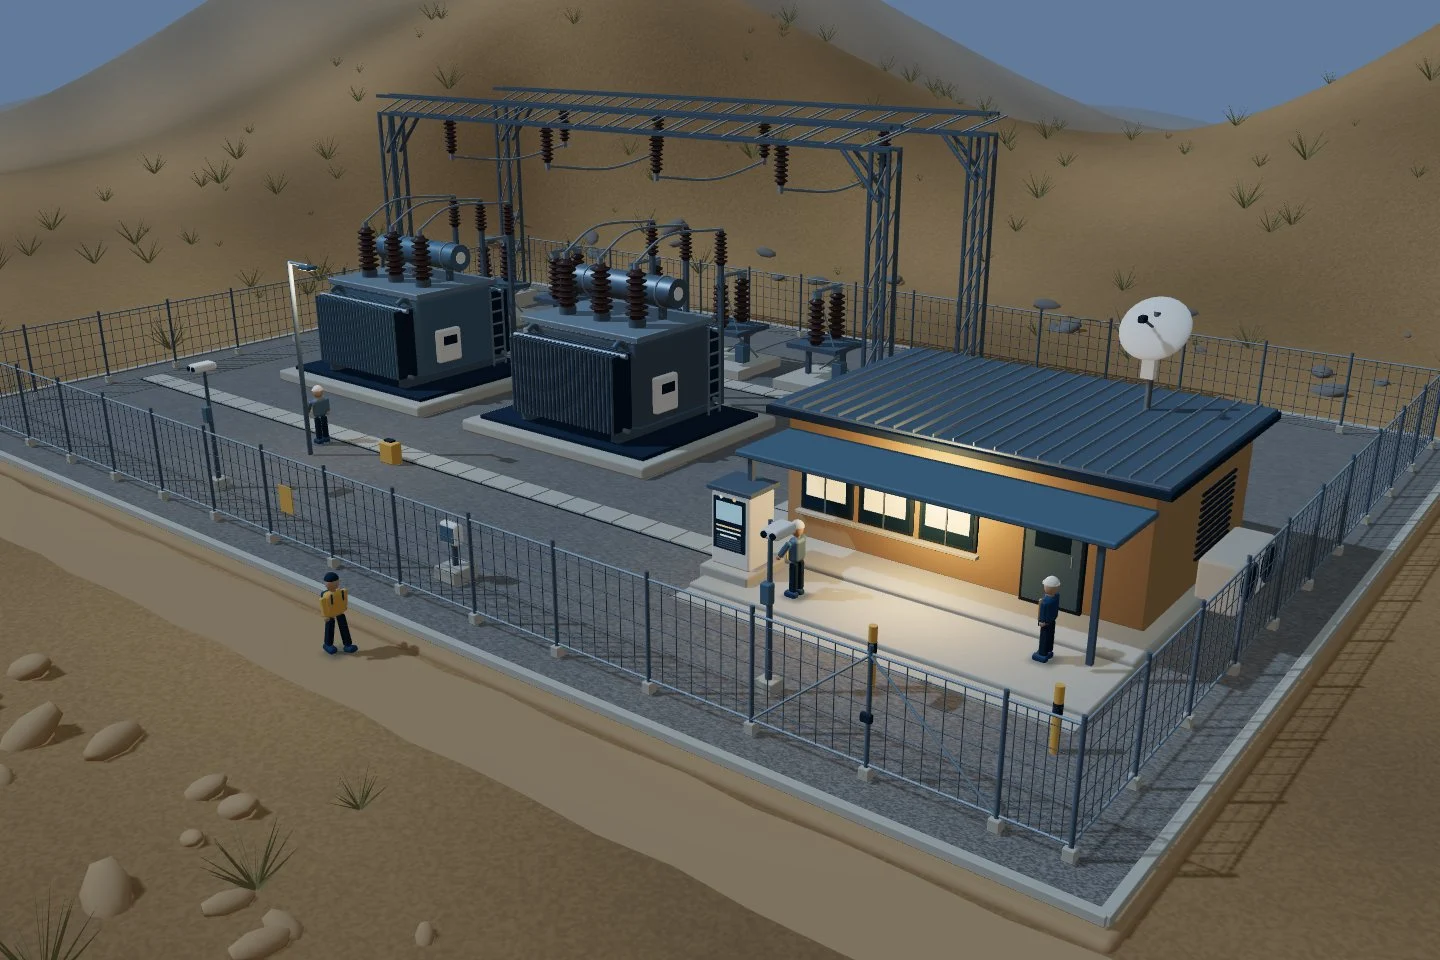
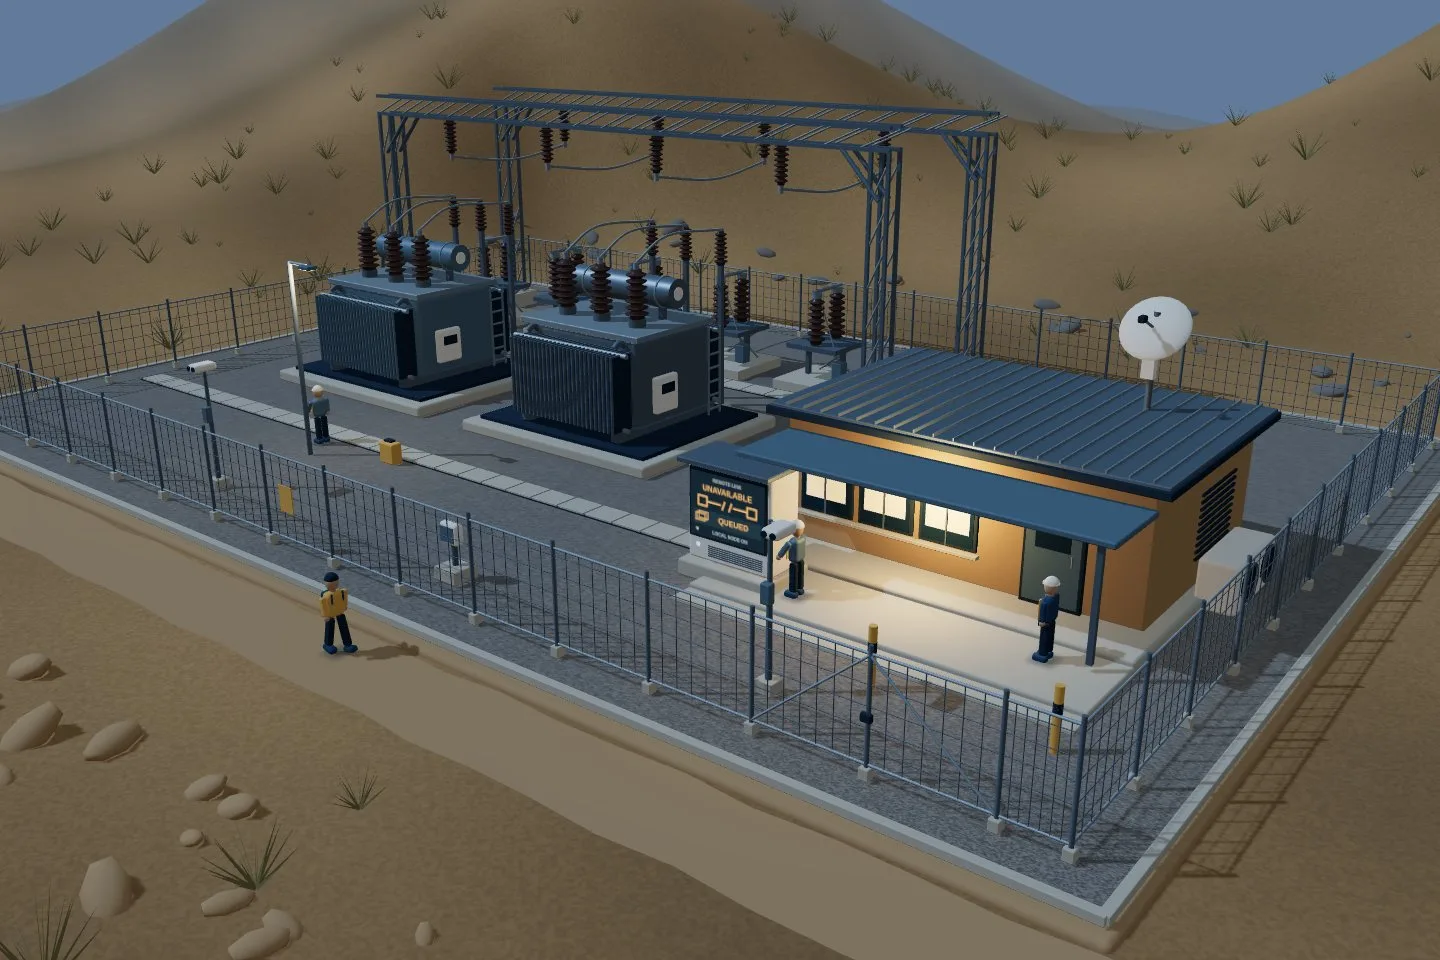
Make remote-link status readable on the physical substation node
Show the remote channel and retained record on a hooded cabinet display,
keep local power steady, and frame loss/restoration for phone viewing.
Preserve the accepted guard motion and refresh the same-geometry poster.

Codex-Agent: tessure-s6
Codex-Session: 01a0d08f-ad9d-7ce0-b7ba-debcd0dd06a1

Changed region(s): [[0.4688, 0.4688, 0.625, 0.625]]

diff --git a/site/components/worlds/scenes/critical-infrastructure/index.tsx b/site/components/worlds/scenes/critical-infrastructure/index.tsx
@@ -5,6 +5,7 @@ import { BufferGeometry, CatmullRomCurve3, DataTexture, Float32BufferAttribute, 
 import type { SceneModule, Vec3, WorldProps } from '../../contract'
 import { mix, progress, samplePath, smooth } from '../../math'
 import { definition } from './content'
+import { statusAtlas } from './status'
 import { contactTexture, insulatorGeometry, makePerson, makeSite, materials, scrubGeometry, scrubPlacements, terrain, type Part, type Placement, type Materials } from './geometry'
 
 function Parts({ parts, shadows = true }: { parts: Part[]; shadows?: boolean }) {
@@ -88,7 +89,9 @@ function Observation({ from, clock, start, local = false, color }: { from: Vec3;
   return <group ref={root} visible={false}><lineSegments geometry={geometry}><lineBasicMaterial color={color} transparent opacity={0.55} depthWrite={false} /></lineSegments><mesh ref={packet}><sphereGeometry args={[0.055, 8, 6]} /><meshBasicMaterial color={color} /></mesh></group>
 }
 function ConnectionState({ clock, sensors }: { clock: WorldProps['clock']; sensors: boolean }) {
-  const connected = useRef<Group>(null), queued = useRef<Group>(null), record = useRef<Group>(null), lamp = useRef<MeshBasicMaterial>(null), bars = useRef<MeshBasicMaterial>(null), packet = useRef<Mesh>(null)
+  const connected = useRef<Group>(null), queued = useRef<Group>(null), packet = useRef<Mesh>(null)
+  const display = useMemo(statusAtlas, [])
+  useEffect(() => () => display.dispose(), [display])
   const points = useMemo(() => new CatmullRomCurve3([new Vector3(15.5, 6.3, -0.8), new Vector3(18, 9, -3), new Vector3(24, 11, -7)]), [])
   const link = useMemo(() => new BufferGeometry().setFromPoints(points.getPoints(32)), [points])
   const continuous = useMemo(() => { const p = points.getPoints(32); return new BufferGeometry().setFromPoints(p.flatMap((v, i) => i < p.length - 1 ? [v, p[i + 1]] : [])) }, [points]), at = useMemo(() => new Vector3(), [])
@@ -97,19 +100,13 @@ function ConnectionState({ clock, sensors }: { clock: WorldProps['clock']; senso
     const t = clock.current.time, up = t < 4 || t >= 46
     if (connected.current) connected.current.visible = sensors && up
     if (queued.current) queued.current.visible = sensors && !up
-    if (record.current) record.current.visible = t >= 20
-    if (lamp.current) lamp.current.color.set(up ? '#a8c8d5' : '#d4a160')
-    if (bars.current) bars.current.color.set(t >= 46 ? '#b9d0da' : '#cda56d')
+    const state = t < 4 ? 0 : t < 20 ? 1 : t < 46 ? 2 : 3
+    display.offset.set((state % 2) * 0.5, state < 2 ? 0.5 : 0)
     if (packet.current) { points.getPoint((t * 0.22) % 1, at); packet.current.position.copy(at) }
   })
   return <group>
-    <mesh position={[8.58, 2.42, 6.7]}><circleGeometry args={[0.046, 12]} /><meshBasicMaterial color="#bdd1d3" /></mesh>
-    <mesh position={[8.96, 2.42, 6.7]}><circleGeometry args={[0.052, 12]} /><meshBasicMaterial ref={lamp} color="#a8c8d5" /></mesh>
-    <group ref={record} position={[8.8, 1.72, 6.71]} visible={false}>
-      <mesh><boxGeometry args={[0.7, 0.04, 0.014]} /><meshBasicMaterial ref={bars} color="#cda56d" /></mesh>
-      <mesh position={[0, -0.115, 0]}><boxGeometry args={[0.7, 0.04, 0.014]} /><meshBasicMaterial color="#b2c6c8" /></mesh>
-      <mesh position={[0, -0.23, 0]}><boxGeometry args={[0.48, 0.04, 0.014]} /><meshBasicMaterial color="#b2c6c8" /></mesh>
-    </group>
+    <mesh name="remote-status-display" position={[8.8, 2.15, 6.767]}><planeGeometry args={[2.12, 1.59]} /><meshBasicMaterial map={display} toneMapped={false} /></mesh>
+    <mesh name="local-power-lamp" position={[7.92, 1.1, 6.727]}><circleGeometry args={[0.065, 16]} /><meshBasicMaterial color="#bdd1d3" /></mesh>
     <group ref={connected} visible={false}><lineSegments geometry={continuous}><lineBasicMaterial color="#bdcdd9" transparent opacity={0.36} depthWrite={false} /></lineSegments><mesh ref={packet}><sphereGeometry args={[0.085, 8, 6]} /><meshBasicMaterial color="#c3d5df" /></mesh></group>
     <group ref={queued} visible={false}><lineSegments geometry={link}><lineBasicMaterial color="#cba674" transparent opacity={0.25} depthWrite={false} /></lineSegments>{[0, 1, 2].map(i => <mesh key={i} position={[9.55, 2.6 + i * 0.14, 6.2]}><boxGeometry args={[0.45, 0.045, 0.24]} /><meshBasicMaterial color="#d5b17f" transparent opacity={0.75} /></mesh>)}</group>
   </group>
@@ -129,7 +126,7 @@ function World({ clock, layers, quality }: WorldProps) {
     <Contact texture={contact} position={[-1.4, 0.24, -0.8]} size={[9.5, 8]} opacity={0.54} />
     <Contact texture={contact} position={[13, 0.241, 1.3]} size={[11.7, 9]} opacity={0.42} />
     <Contact texture={contact} position={[-7.6, 0.242, -9]} size={[24, 4]} opacity={0.32} />
-    <Contact texture={contact} position={[8.8, 0.464, 6.15]} size={[1.9, 2]} opacity={0.5} />
+    <Contact texture={contact} position={[8.8, 0.464, 6.15]} size={[3.1, 2.2]} opacity={0.5} />
     <Person role="visitor" clock={clock} m={m} high={high} contact={contact} /><Person role="guard" clock={clock} m={m} high={high} contact={contact} />
     <Person role="operator" clock={clock} m={m} high={high} contact={contact} /><Person role="technician" clock={clock} m={m} high={high} contact={contact} />
     <ConnectionState clock={clock} sensors={layers.sensors} />{layers.tracks && <Track clock={clock} />}

diff --git a/site/components/worlds/scenes/critical-infrastructure/content.ts b/site/components/worlds/scenes/critical-infrastructure/content.ts
@@ -9,7 +9,7 @@ export const definition: SceneDefinition = {
   establishing: { title: 'The last maintenance round', body: 'A technician checks the yard as evening settles over the foothills. The local station and remote link are available in this fictional site study.' },
   duration: 52,
   poster: '/worlds/critical-infrastructure/poster.webp',
-  posterAlt: 'A blue-hour substation in ochre foothills: ribbed transformers, ceramic insulators and silver gantries beside a warmly lit local control shelter.',
+  posterAlt: 'A blue-hour substation in ochre foothills: ribbed transformers, ceramic insulators and silver gantries beside a warmly lit control shelter and a physical cabinet showing the unavailable remote link and retained local record.',
   palette: {
     background: '#627b9a', fog: '#627b9a', fogNear: 72, fogFar: 195,
     ambient: 0.36, sun: '#abcaf1', sunIntensity: 1.85, sunPosition: [-28, 38, 22],
@@ -20,22 +20,26 @@ export const definition: SceneDefinition = {
   practicalLightLimit: 2,
   cameras: [
     { at: 0, position: [37, 25, 46], target: [0, 2, 0], mobilePosition: [31, 27, 53], mobileTarget: [1, 2.6, 1], fov: 40, easing: 'smoother', interpolation: 'spline' },
-    { at: 4, position: [29, 18, 39], target: [-5, 2.5, 3], mobilePosition: [13, 18, 42], mobileTarget: [-8, 2.2, 5], fov: 40, easing: 'smooth', interpolation: 'spline' },
+    { at: 3, cut: true, position: [12.3, 4.8, 15.5], target: [9, 1.9, 6.7], mobilePosition: [10.5, 4.3, 13.8], mobileTarget: [8.9, 2, 6.7], fov: 38, easing: 'smooth' },
+    { at: 4, position: [12.3, 4.8, 15.5], target: [9, 1.9, 6.7], mobilePosition: [10.5, 4.3, 13.8], mobileTarget: [8.9, 2, 6.7], fov: 38, easing: 'smooth' },
+    { at: 6, cut: true, position: [29, 18, 39], target: [-5, 2.5, 3], mobilePosition: [-1, 8, 25], mobileTarget: [-8, 1.8, 12.5], fov: 40, easing: 'smooth', interpolation: 'spline' },
     { at: 10, position: [13, 11, 30], target: [-4, 2.1, 8], mobilePosition: [7, 12, 33], mobileTarget: [-5, 2, 8], fov: 40, easing: 'smooth' },
     { at: 12, cut: true, position: [3, 5.4, 25], target: [-3.7, 1.5, 12], mobilePosition: [-0.5, 5.2, 26], mobileTarget: [-3.7, 1.6, 12.3], fov: 40, easing: 'linear', interpolation: 'spline' },
     { at: 19, position: [10, 5.8, 26], target: [3, 1.7, 12], mobilePosition: [6, 5.8, 26], mobileTarget: [3, 1.6, 12], fov: 40, easing: 'smooth' },
     { at: 20, cut: true, position: [26, 13, 29], target: [8, 2.5, 6], mobilePosition: [19, 14, 30], mobileTarget: [9, 2.5, 6], fov: 40, easing: 'smoother', interpolation: 'spline' },
     { at: 29, position: [23, 7.8, 23], target: [11, 1.9, 6.9], mobilePosition: [18.5, 9, 28], mobileTarget: [11.1, 2, 8.8], fov: 38, easing: 'smooth', interpolation: 'spline' },
     { at: 34, position: [22, 7, 25], target: [12, 1.7, 9.5], mobilePosition: [18, 7.5, 25], mobileTarget: [12, 1.7, 9.5], fov: 38, easing: 'smooth', interpolation: 'spline' },
-    { at: 38, position: [20, 6.4, 26], target: [11.6, 1.7, 11], mobilePosition: [15.7, 6.5, 25], mobileTarget: [11.2, 1.7, 11.4], fov: 38, easing: 'smoother', interpolation: 'spline' },
+    { at: 38, position: [20, 6.4, 26], target: [11.6, 1.7, 11], mobilePosition: [12.7, 6.1, 20], mobileTarget: [9.7, 1.2, 9.8], fov: 38, easing: 'smoother', interpolation: 'spline' },
     { at: 43, position: [24, 10, 31], target: [9, 2, 8], mobilePosition: [19, 13, 34], mobileTarget: [10, 2, 7], fov: 40, easing: 'smoother', interpolation: 'spline' },
-    { at: 46, position: [36, 23, 44], target: [2, 2, 1], mobilePosition: [30, 26, 52], mobileTarget: [3, 2.5, 2], fov: 40, easing: 'smooth', interpolation: 'spline' },
+    { at: 44, cut: true, position: [12.3, 4.8, 15.5], target: [9, 1.9, 6.7], mobilePosition: [10.5, 4.3, 13.8], mobileTarget: [8.9, 2, 6.7], fov: 38, easing: 'smooth' },
+    { at: 46, position: [12.3, 4.8, 15.5], target: [9, 1.9, 6.7], mobilePosition: [10.5, 4.3, 13.8], mobileTarget: [8.9, 2, 6.7], fov: 38, easing: 'smooth' },
+    { at: 49, cut: true, position: [36, 23, 44], target: [2, 2, 1], mobilePosition: [30, 26, 52], mobileTarget: [3, 2.5, 2], fov: 40, easing: 'smooth', interpolation: 'spline' },
     { at: 52, position: [37, 25, 46], target: [0, 2, 0], mobilePosition: [31, 27, 53], mobileTarget: [1, 2.6, 1], fov: 40 },
   ],
   beats: [
     { id: 'detect', at: 4, title: 'Movement beyond the fence', body: 'A person moves along the outer perimeter as the illustrated backhaul becomes unavailable. These are two observations; the interruption does not establish an attack.', evidence: [
       { source: 'Ground radar', detail: 'Movement follows the outside of the southern fence.' },
-      { source: 'Remote link', detail: 'Unavailable in this simulation; local inputs remain visible.' },
+      { source: 'Remote link', detail: 'Unavailable in this simulation; local inputs remain visible and the local node stays powered.' },
     ] },
     { id: 'verify', at: 12, title: 'Two local views, one crossing', body: 'The proposed on-site system checks the radar observation against thermal and camera views. A person is visible outside the fence; purpose and permission are unknown.', evidence: [
       { source: 'Thermal view', detail: 'A warm silhouette continues along the perimeter path.' },

diff --git a/site/components/worlds/scenes/critical-infrastructure/status.ts b/site/components/worlds/scenes/critical-infrastructure/status.ts
@@ -1,0 +1,33 @@
+import { CanvasTexture, SRGBColorSpace } from 'three'
+
+/** Four static, self-drawn faces for the physical cabinet; no animated texture clock. */
+export function statusAtlas() {
+  const canvas = document.createElement('canvas')
+  canvas.width = 1024; canvas.height = 768
+  const c = canvas.getContext('2d')!
+  for (let state = 0; state < 4; state++) {
+    c.save(); c.translate((state % 2) * 512, Math.floor(state / 2) * 384)
+    const up = state === 0 || state === 3, ink = up ? '#d8e9ec' : '#efbd76'
+    c.fillStyle = '#142733'; c.fillRect(0, 0, 512, 384)
+    c.textAlign = 'center'; c.fillStyle = '#adbec4'; c.font = '600 29px sans-serif'; c.fillText('REMOTE LINK', 256, 47)
+    c.fillStyle = ink; c.font = '700 49px sans-serif'; c.fillText(up ? 'CONNECTED' : 'UNAVAILABLE', 256, 108)
+    // Two endpoint sockets; a joined channel versus a conspicuous break, not a power switch.
+    c.strokeStyle = ink; c.lineWidth = 10; c.lineJoin = 'round'
+    c.strokeRect(54, 143, 62, 56); c.strokeRect(396, 143, 62, 56)
+    c.beginPath(); c.moveTo(116, 171); c.lineTo(up ? 396 : 213, 171)
+    if (!up) { c.moveTo(299, 171); c.lineTo(396, 171); c.moveTo(242, 144); c.lineTo(222, 198); c.moveTo(289, 144); c.lineTo(269, 198) }
+    c.stroke()
+    c.fillStyle = '#203744'; c.fillRect(20, 223, 472, 90)
+    c.strokeStyle = ink; c.lineWidth = 5
+    for (let i = 0; i < 3; i++) c.strokeRect(34 + i * 12, 251 - i * 8, 66, 43)
+    c.fillStyle = ink; c.font = `700 ${state === 3 ? 36 : state === 2 ? 49 : 43}px sans-serif`
+    c.fillText(['NO QUEUE', 'LOCAL ONLY', 'QUEUED', 'READY TO SYNC'][state], 300, 282)
+    // Invariant local-power rail. Its meaning is repeated in the accessible narrative.
+    c.fillStyle = '#adc9ce'; c.beginPath(); c.arc(46, 347, 9, 0, Math.PI * 2); c.fill()
+    c.font = '600 29px sans-serif'; c.fillText('LOCAL NODE ON', 276, 357)
+    c.restore()
+  }
+  const texture = new CanvasTexture(canvas)
+  texture.colorSpace = SRGBColorSpace; texture.repeat.set(0.5, 0.5); texture.offset.set(0, 0.5)
+  return texture
+}

diff --git a/site/components/worlds/scenes/critical-infrastructure/geometry.ts b/site/components/worlds/scenes/critical-infrastructure/geometry.ts
@@ -198,13 +198,12 @@ export function makeSite(m: Materials, high: boolean) {
   for (let i = 0; i < 10; i++) a.box([17.64, 1.35 + i * 0.17, 0], [0.055, 0.055, 2.25], 'dark')
   a.box([18.25, 0.92, 0.1], [0.95, 1.21, 2.55], 'chalk', 0.1)
   for (const z of [-0.6, 0.75]) { a.cylinder([18.75, 1, z], 0.42, 0.05, 'dark', [0, 0, Math.PI / 2]); a.put(new TorusGeometry(0.43, 0.038, 5, 24), 'steel', [18.8, 1, z], [0, Math.PI / 2, 0]) }
-  // Local node beside the building: enclosure, louvres, plinth, inset screen and conduit.
-  a.box([8.8, 0.49, 6.15], [1.4, 0.44, 1.55], 'concrete', 0.07)
-  a.box([8.8, 1.61, 6.15], [1.12, 1.85, 1.0], 'chalk', 0.075)
-  a.box([8.8, 2.6, 6.15], [1.29, 0.12, 1.16], 'steel', 0.03)
-  a.box([8.8, 1.77, 6.668], [0.92, 1.28, 0.03], 'dark', 0.03)
-  a.box([8.8, 2.08, 6.69], [0.74, 0.46, 0.02], 'screen', 0.025)
-  for (let i = 0; i < 6; i++) a.box([8.8, 1.2 + i * 0.052, 6.698], [0.69, 0.021, 0.025], 'steel')
+  // Hooded local status cabinet: remote-link display is separate from local power.
+  a.box([8.8, 0.49, 6.15], [2.65, 0.44, 1.65], 'concrete', 0.07)
+  a.box([8.8, 1.93, 6.15], [2.4, 2.44, 1.1], 'chalk', 0.075)
+  a.box([8.8, 3.2, 6.25], [2.6, 0.13, 1.5], 'steel', 0.03)
+  a.box([8.8, 2.15, 6.72], [2.24, 1.72, 0.08], 'dark', 0.03)
+  for (let i = 0; i < 6; i++) a.box([9.0, 0.87 + i * 0.05, 6.72], [1.57, 0.022, 0.025], 'steel')
   a.tube([[8.3, 0.62, 6.15], [8.03, 0.62, 6.15], [8.03, 0.35, 4.2], [8.5, 0.35, 4.2]], 0.05, 'steel')
   // Roof backhaul unit: mast, parabolic reflector, feed arm. No real network/site markings.
   a.cylinder([15.5, 5.15, -0.8], 0.08, 2.4, 'steel')
